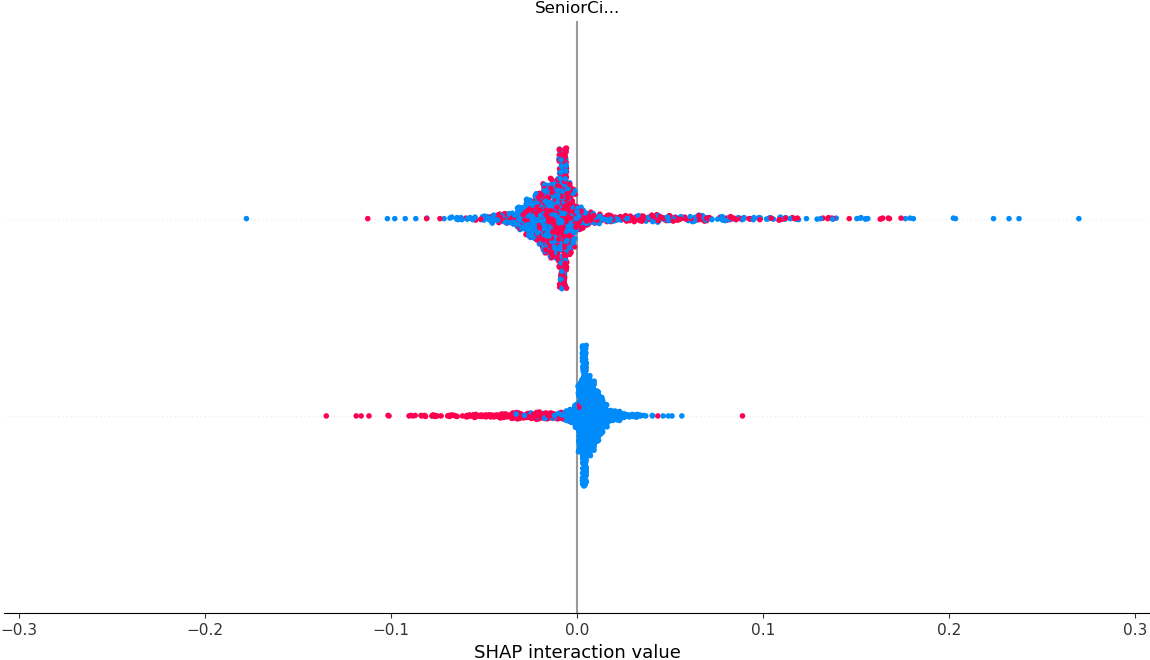
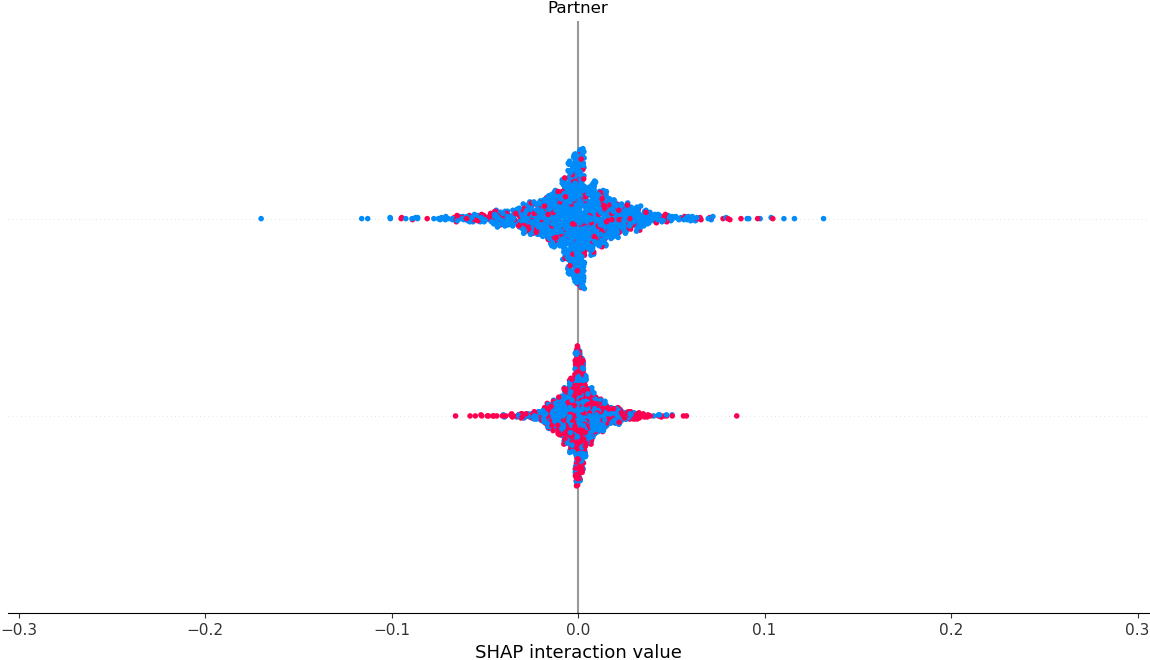
Added inferences to output graphs

diff --git a/frontend.py b/frontend.py
@@ -38,19 +38,81 @@ def eda(Graphs):
 def result(Graphs):
     match Graphs:
         case "Correlation":
-            inf = "Enter inference here"
+            inf = """
+Inferences:
+
+    - Churn is perfectly correlated with itself (1.0).
+
+    - Tenure and Contract have strong negative correlation with Churn.
+
+    - MonthlyCharges and PaperlessBilling have moderate positive correlation with Churn.
+
+    - Gender, PhoneService, and MultipleLines have near-zero correlation.
+
+    - OnlineSecurity, TechSupport, and DeviceProtection have moderate negative correlation.
+"""
             return [gr.Image("graphs/EDAGraphs/Correlation.png"), inf]
         case "Confusion Matrix for Random Forest":
-            inf = "Enter inference here"
+            inf = """
+Inferences:
+
+    - True Positives (181) are lower than Logistic Regression’s (215), indicating worse recall for churn.
+
+    - False Negatives (192) are higher – more churners are missed.
+
+    - False Positives (104) are slightly higher than logistic regression’s — marginally more false alarms.
+
+    - True Negatives (932) are comparable – performs similarly for non-churn cases.
+
+    - Overall: Slightly poorer at identifying churn compared to Logistic Regression in this case.
+
+"""
             return [gr.Image("graphs/OutputGraphs/ConfusionMatrixRandomForest.png"), inf]
         case "Confusion Matrix for Logistic regression":
-            inf = "Enter inference here"
+            inf = """
+Inferences:
+
+    - True Negatives (936) and True Positives (215) indicate good performance in correctly identifying both classes.
+
+    - False Negatives (158): A moderate number of actual churns are missed, which could be critical in business decisions.
+
+    - False Positives (100): Some non-churning customers are predicted to churn — might lead to unnecessary retention efforts.
+
+    - Model Bias: Slight bias towards predicting the majority class (non-churn).
+
+    - Overall: Reasonable balance, but recall for churn could be improved.
+
+"""
             return [gr.Image("graphs/OutputGraphs/ConfusionMatrixLogistic.png"), inf]
         case "SHAP analysis for Random Forest":
-            inf = "Enter inference here"
+            inf = """
+Inferences:
+
+    - Bimodal Distribution: Indicates two clear groups — likely senior citizens and non-seniors with distinct behavior patterns.
+
+    - Near-Zero SHAP values: SeniorCitizen has limited standalone predictive power.
+
+    - Interaction: The variable may influence predictions when combined with other features (e.g., internet service or contract).
+
+    - Red vs Blue Dots: Represents SHAP values across classes — they’re symmetric, confirming weak influence.
+
+    - Overall: SeniorCitizen is not a key predictor by itself in this model.
+"""
             return [gr.Image("graphs/OutputGraphs/SHAP_RandomForest_Summary.png"), inf]
         case "SHAP analysis for Logistic Regression":
-            inf = "Enter inference here"
+            inf = """
+Inferences:
+
+    - Top Feature: tenure is the most influential in predicting churn — lower tenure likely increases churn risk.
+
+    - MonthlyCharges & Contract also have strong effects — customers on monthly or expensive plans may churn more.
+
+    - Security-related services (e.g., OnlineSecurity, TechSupport) have moderate influence — presence may reduce churn.
+    
+    - PaperlessBilling and OnlineBackup show notable contributions, possibly associated with digital-savvy customers.
+
+    - Features like DeviceProtection, Partner, and PaymentMethod have minimal impact.
+"""
             return [gr.Image("graphs/OutputGraphs/SHAP_Logistic_Summary.png"), inf]
 
 def metrics(Algorithms):
@@ -92,7 +154,7 @@ with gr.Blocks() as Output:
     with gr.Tab("Output Graphs"):
         result_input = gr.Radio(["Correlation", "Confusion Matrix for Random Forest", "Confusion Matrix for Logistic regression", "SHAP analysis for Random Forest", "SHAP analysis for Logistic Regression"], show_label = False)
 
-        result_output = [gr.Image(), gr.Label()]
+        result_output = [gr.Image(), gr.Markdown()]
 
         result_input.change(fn = result, inputs=result_input, outputs = result_output)
 
